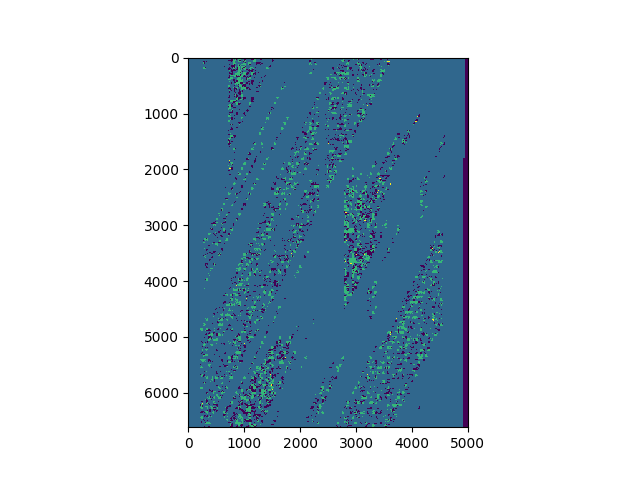
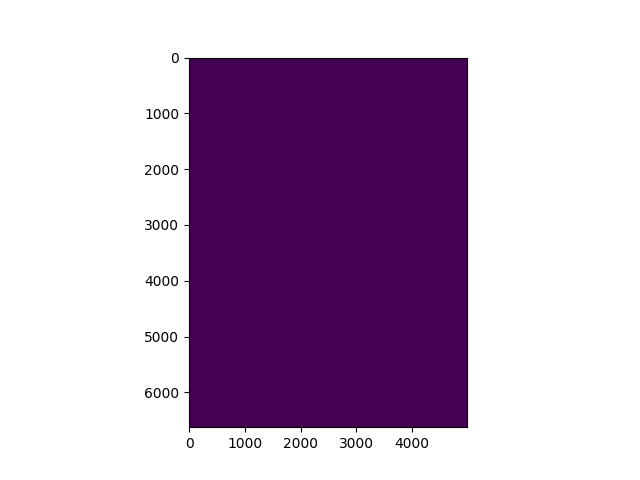
Try basic stitching... also a huge failure...

diff --git a/stitching/write_dataset.py b/stitching/write_dataset.py
@@ -5,6 +5,7 @@
 
 import imageio
 import tensorflow as tf
+from skimage.util.shape import view_as_blocks
 import os
 import numpy as np
 import matplotlib.pyplot as plt
@@ -17,6 +18,22 @@ def _int64_feature(value):
 
 def _bytes_feature(value):
     return tf.train.Feature(bytes_list=tf.train.BytesList(value=[value]))
+
+def get_blocks(image_np):
+    dim_pad = []
+    # Make sure the image can be split evenly
+    for ind, dim in enumerate(image_np.shape[:-1]):
+        dim_pad.append((0, 53 - (dim % 53)))
+    dim_pad.append((0, 0))
+    image_np = np.pad(image_np, pad_width=dim_pad, mode='constant', constant_values=255)
+    blocks = view_as_blocks(image_np, block_shape=(53, 53, 3))
+    blocks = blocks.squeeze()
+    block_list = []
+    for i in range(blocks.shape[0]):
+        for j in range(blocks.shape[1]):
+            block_list.append(blocks[i, j])
+    print(block_list[0].shape)
+    return block_list, image_np
 
 
 # TODO: Factor out magic numbers here
@@ -62,6 +79,52 @@ def get_patches(image_np):
         marker_i1 += step_size
 
     return slices, image_np
+
+def concat_image(merge_buffer, image_name):
+    pred_images = []
+    input_images = []
+    height = None
+    width = None
+    for buffer in merge_buffer:
+        for buffer_item in buffer[0]:
+            pred_image, input_image, input_name, image_height, image_width = buffer_item
+            if input_name != image_name:
+                break
+            height = image_height
+            width = image_width
+            pred_images.append(pred_image)
+            input_images.append(input_image)
+    final_predicted_image = np.full((height, width), -1)
+    marker_i = 0
+    marker_j = 0
+    for image in pred_images:
+        if marker_j == width:
+            marker_j = 0
+            marker_i += 53
+        final_predicted_image[marker_i:marker_i+53, marker_j:marker_j+53] = image
+        marker_j += 53
+
+    final_input_image = np.full((height, width, 3), -1)
+    marker_i = 0
+    marker_j = 0
+    for image in input_images:
+        if marker_j == width:
+            marker_j = 0
+            marker_i += 53
+        final_input_image[marker_i:marker_i+53, marker_j:marker_j+53] = image
+        marker_j += 53
+
+    plt.imshow(final_input_image)
+    plt.colorbar()
+    plt.savefig('stitch_results/input_{}'.format(image_name.decode()), dpi=1000)
+    
+    plt.imshow(final_predicted_image)
+    plt.colorbar()
+    plt.savefig('stitch_results/predict_{}'.format(image_name.decode()), dpi=1000)
+    
+        
+        
+
 
 
 # TODO: Factor our magic numbers here
@@ -218,7 +281,7 @@ def write_dataset(image_dir):
     writer = tf.python_io.TFRecordWriter(tfrecords_filename)
     for png in os.listdir(image_dir):
         image_np = imageio.imread(os.path.join(image_dir, png))
-        patches, image_np_pad = get_patches(image_np)
+        patches, image_np_pad = get_blocks(image_np)
         for patch in patches:
             image_raw = patch.tostring()
             example = tf.train.Example(features=tf.train.Features(feature={

diff --git a/run.py b/run.py
@@ -13,7 +13,7 @@ import os
 import argparse
 import json
 from metrics import *
-from stitching.write_dataset import write_dataset, stitch_image
+from stitching.write_dataset import write_dataset, stitch_image, concat_image
 
 
 parser = argparse.ArgumentParser()
@@ -106,12 +106,12 @@ with tf.Session() as sess:
                 check_name = list(merge_buffer[0][1].keys())[-1]
                 # Check the last item
                 if check_name != list(merge_buffer[-1][1].keys())[-1]:
-                    stitch_image(merge_buffer, check_name)
+                    concat_image(merge_buffer, check_name)
                     merge_buffer = [merge_buffer[-1]]
 
         except tf.errors.OutOfRangeError:
             # Clear the merge buffer
             if len(merge_buffer) > 0:
-                stitch_image(merge_buffer, list(merge_buffer[0][1].keys())[-1])
+                concat_image(merge_buffer, list(merge_buffer[0][1].keys())[-1])
             break
 
